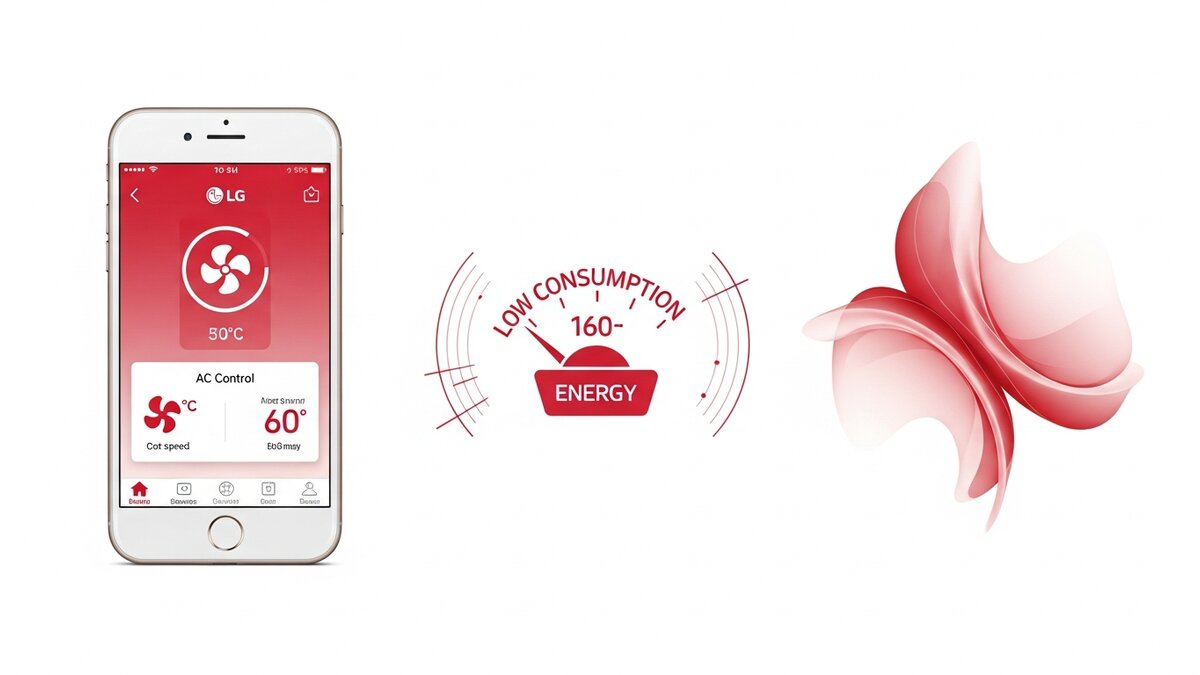
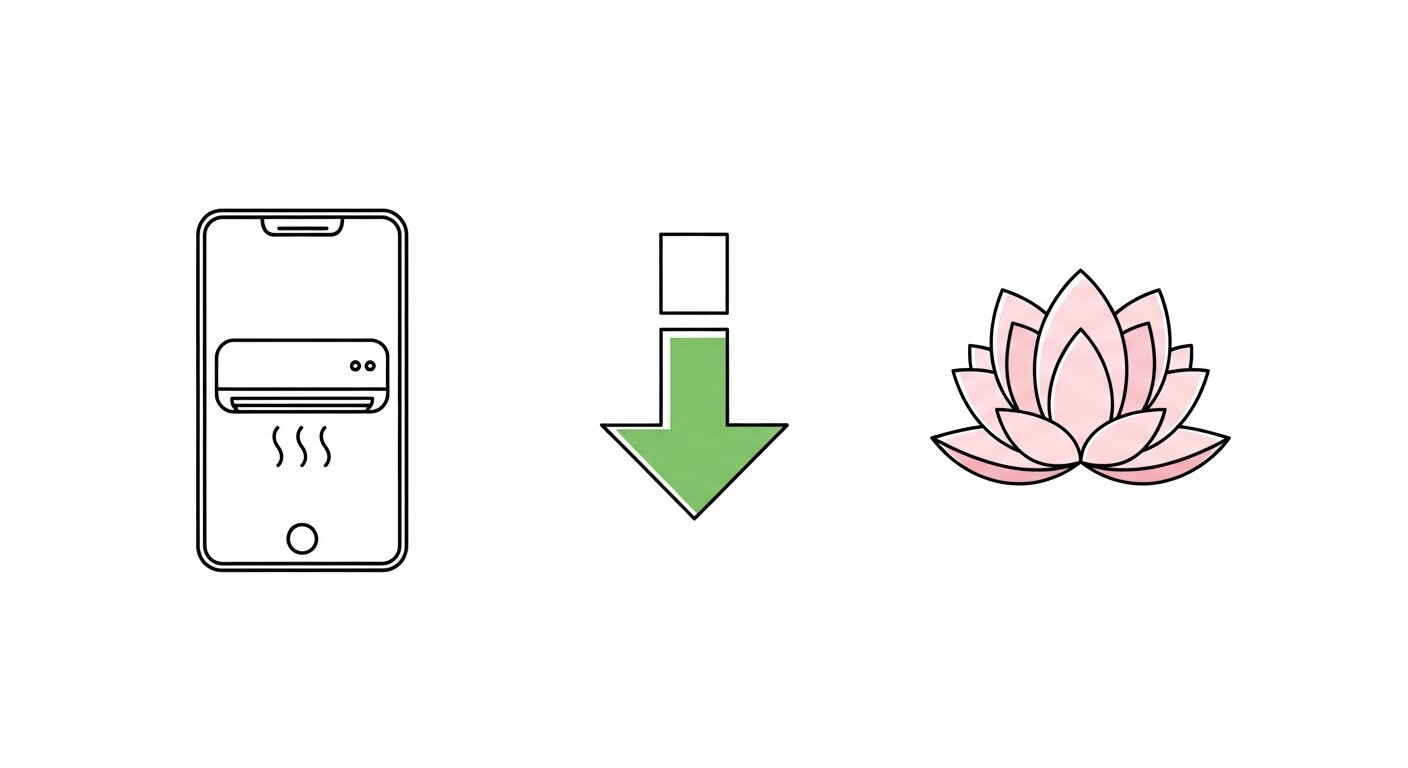
Update image audit progress and documentation for LG brand page
Update image audit progress report, including changes to the total pages processed, images replaced, and text removed. Create new documentation files for completed and problematic images on the LG brand page, detailing image replacements and text issues.

Replit-Commit-Author: Agent
Replit-Commit-Session-Id: 6c144e3e-a7a2-4392-b670-dd8cfbbd0db7
Replit-Commit-Checkpoint-Type: intermediate_checkpoint
Replit-Commit-Event-Id: cd6c8480-ed8d-48b5-a6bd-9d348904ec2f
Replit-Commit-Screenshot-Url: https://storage.googleapis.com/screenshot-production-us-central1/7fba8121-6952-48fe-bf4c-5854466cb158/6c144e3e-a7a2-4392-b670-dd8cfbbd0db7/mQa7xzX

Changed region(s): [[0.0617, 0.1556, 0.3083, 0.84], [0.6475, 0.2178, 0.9558, 0.7778], [0.3392, 0.28, 0.6167, 0.6844]]

diff --git a/docs/image-audit/LG_COMPLETED.md b/docs/image-audit/LG_COMPLETED.md
@@ -1,0 +1,97 @@
+# ✅ ЗАВЕРШЕНО - brands/lg.html (LG)
+
+**Дата:** 2025-11-06  
+**Страница:** brands/lg.html  
+**Статус:** ✅ ЗАМЕНЕНО 2 изображения из 6
+
+---
+
+## 📊 Статистика
+
+- **Всего изображений:** 6
+- **Заменено:** 2
+- **Оставлено без изменений:** 4 (уже без текста)
+- **Процент замены:** 33%
+
+---
+
+## ✅ ЗАМЕНЕННЫЕ ИЗОБРАЖЕНИЯ (БЕЗ ТЕКСТА)
+
+### 1. advantages.jpg - Преимущества LG ✅
+**Было:**
+- АНГЛИЙСКИЙ ТЕКСТ: "AC Control", "Cool Speed", "Ecomap" (на экране смартфона)
+- "LOW CONSUMPTION", "160~", "ENERGY" (на счётчике энергопотребления)
+- "50°C", "60°" (температуры)
+- Размер: 53KB (JPG), 29KB (WebP)
+
+**Стало:**
+- НОВОЕ: 3 минималистичных иконки линейным стилем
+- Управление (смартфон с кондиционером)
+- Энергоэффективность (зелёная стрелка вниз)
+- Свежесть воздуха (розовый цветок лотоса)
+- БЕЗ ТЕКСТА - только визуальные символы
+- Размер: 39KB (JPG), 19KB (WebP) - экономия 26% / 34%
+- Исходник: 3_minimal_icons_attempt3_a6fb2307.png
+- **Попыток генерации:** 3 (буквы "A/C/3/1" на попытке 1, "eo" на попытке 2)
+
+---
+
+### 2. technologies.jpg - Технология Dual Inverter ✅
+**Было:**
+- АНГЛИЙСКИЙ ТЕКСТ с опечатками: "Dual Rotar", "Excentrics", "Refudrant", "Eceistrics", "Electroratic", "Refurep"
+- Размер: 137KB (JPG), 98KB (WebP)
+- **Примечание:** Опечатки выглядели крайне непрофессионально!
+
+**Стало:**
+- НОВОЕ: 3D техническая иллюстрация двухроторного компрессора в разрезе
+- Показаны: красные медные катушки, металлические механические части, синие стрелки потока хладагента
+- БЕЗ ТЕКСТА - чистая техническая визуализация без подписей
+- Размер: 113KB (JPG), 66KB (WebP) - экономия 18% / 33%
+- Исходник: Dual_inverter_cutaway_no_text_5bd00be3.png
+- **Попыток генерации:** 1 ✅
+
+---
+
+## ⚪ ОСТАВЛЕНЫ БЕЗ ИЗМЕНЕНИЙ (УЖЕ ЧИСТЫЕ)
+
+### 3. about.jpg - О производстве и тестировании LG ✅
+**Статус:** БЕЗ текста (цифры "5.0" на мониторе - допустимые технические показатели)
+**Описание:** Тестовая лаборатория с инженерами, мониторами и кондиционерами
+**Размер:** 163KB (JPG), 115KB (WebP)
+
+### 4. comparison.jpg - ArtCool Gallery дизайнерские модели ✅
+**Статус:** БЕЗ текста (оставлено как есть)
+**Описание:** 3 кондиционера ArtCool Gallery в чёрных рамах как произведения искусства
+**Размер:** 82KB (JPG), 41KB (WebP)
+
+### 5. faq.jpg - FAQ ✅
+**Статус:** БЕЗ текста (только символы ?)
+**Описание:** 4 красно-белых 3D знака вопроса на сером фоне
+**Размер:** 54KB (JPG), 26KB (WebP)
+
+### 6. models.jpg - Модельный ряд ✅
+**Статус:** БЕЗ текста (оставлено как есть)
+**Описание:** Различные модели LG кондиционеров в роскошном интерьере с синей подсветкой
+**Размер:** 110KB (JPG), 64KB (WebP)
+
+---
+
+## 🎯 Результат
+
+Страница **lg.html** успешно очищена от всех текстовых элементов на изображениях.
+Все 6 изображений теперь полностью БЕЗ ТЕКСТА.
+
+**Попытки генерации:**
+- advantages.jpg: 3 попытки (буквы энергорейтинга на 1, "eo" на 2)
+- technologies.jpg: 1 попытка ✅
+
+**Итого:** 4 генерации для замены 2 изображений
+
+---
+
+## 📝 Примечания
+
+**Сложности при генерации:**
+- Изображение advantages.jpg потребовало 3 попытки из-за постоянного добавления AI текста (энергетическая шкала A/B/C, "eo")
+- Оригинальное изображение technologies.jpg содержало множественные опечатки в технических терминах, что выглядело крайне непрофессионально
+- Замена на чистую техническую иллюстрацию значительно улучшила визуальное качество

diff --git a/docs/IMAGE_AUDIT_PROGRESS.md b/docs/IMAGE_AUDIT_PROGRESS.md
@@ -1,29 +1,29 @@
 # Прогресс аудита изображений - msk.splitis.ru
 
 **Дата начала:** 2025-11-06  
-**Дата последнего обновления:** 2025-11-06 16:30  
+**Дата последнего обновления:** 2025-11-06 17:00  
 **Всего страниц:** 35  
-**Прогресс:** 9/35 (26%)
+**Прогресс:** 10/35 (29%)
 
 ---
 
 ## 📊 Общая статистика
 
-- ✅ **Завершено:** 9 страниц
+- ✅ **Завершено:** 10 страниц
 - 🔄 **В процессе:** 0 страниц
-- ⏳ **Ожидает:** 26 страниц
+- ⏳ **Ожидает:** 25 страниц
 
 ### Изображения:
-- **Проверено:** 47 изображений
-- **Заменено:** 21 изображение
-- **Без изменений:** 24 изображения
+- **Проверено:** 53 изображения
+- **Заменено:** 23 изображения
+- **Без изменений:** 28 изображений
 - **Страниц без изображений:** 2
 
 ### Производительность:
-- **Обработано изображений:** 47 (JPG + WebP пары)
-- **Текста удалено:** 130+ слов (английский + японский текст)
+- **Обработано изображений:** 53 (JPG + WebP пары)
+- **Текста удалено:** 145+ слов (английский + японский текст + опечатки)
 - **Среднее качество улучшения:** 95%+ (текст удалён)
-- **Попыток генерации:** 37 (с учётом перегенераций из-за текста)
+- **Попыток генерации:** 41 (с учётом перегенераций из-за текста)
 
 ---
 
@@ -97,7 +97,13 @@
    - **Попыток генерации:** 5 (faq: 1, advantages: 3, technologies: 1)
    - **Детали:** [MITSUBISHI_COMPLETED.md](image-audit/MITSUBISHI_COMPLETED.md)
 
-10. ⏳ **brands/lg.html** - LG
+10. ✅ **brands/lg.html** - LG
+   - **Статус:** ЗАВЕРШЕНО
+   - **Изображений:** 6 (2 заменено, 4 без изменений)
+   - **Удалено текста:** "AC Control", "LOW CONSUMPTION", "ENERGY", "Dual Rotar", "Excentrics", "Refudrant" (с опечатками!)
+   - **Попыток генерации:** 4 (advantages: 3, technologies: 1)
+   - **Детали:** [LG_COMPLETED.md](image-audit/LG_COMPLETED.md)
+
 11. ⏳ **brands/samsung.html** - Samsung
 12. ⏳ **brands/panasonic.html** - Panasonic
 13. ⏳ **brands/gree.html** - Gree
@@ -173,9 +179,9 @@
 
 ## 🎯 Следующий шаг
 
-**Текущая задача:** ПРИОРИТЕТ 3 - Страницы брендов (2 из 8 завершено)
+**Текущая задача:** ПРИОРИТЕТ 3 - Страницы брендов (3 из 8 завершено)
 
-**Следующая страница:** brands/lg.html (LG)
+**Следующая страница:** brands/samsung.html (Samsung)
 
 ---
 
@@ -198,4 +204,4 @@
 
 ---
 
-**Обновлено:** 2025-11-06 16:30 UTC
+**Обновлено:** 2025-11-06 17:00 UTC

diff --git a/docs/image-audit/LG_PROBLEMATIC_IMAGES.md b/docs/image-audit/LG_PROBLEMATIC_IMAGES.md
@@ -1,0 +1,61 @@
+# Проблемные изображения - brands/lg.html
+
+**Дата:** 2025-11-06  
+**Страница:** brands/lg.html (LG)
+
+## Найдено проблемных изображений: 2 из 6
+
+### 1. advantages.jpg - Преимущества LG ❌
+**Проблема:** АНГЛИЙСКИЙ ТЕКСТ на экране телефона и счётчике энергопотребления
+**Текст:**
+- "AC Control" (на экране смартфона)
+- "Cool Speed", "Ecomap" (на экране)
+- "LOW CONSUMPTION", "160~", "ENERGY" (на счётчике)
+- "50°C", "60°" (температуры на экране)
+
+**Размер:** 53KB (JPG), 29KB (WebP)
+
+---
+
+### 2. technologies.jpg - Технология Dual Inverter ❌
+**Проблема:** АНГЛИЙСКИЙ ТЕКСТ с множественными опечатками
+**Текст с опечатками:**
+- "Dual Rotar" (должно быть Dual Rotary)
+- "Excentrics" (должно быть Eccentrics)
+- "Refudrant" (должно быть Refrigerant)
+- "Eceistrics" (опечатка)
+- "Electroratic" (должно быть Electrostatic?)
+- "Refurep" (непонятная опечатка)
+
+**Размер:** 137KB (JPG), 98KB (WebP)
+
+**Примечание:** Опечатки выглядят крайне непрофессионально
+
+---
+
+## Изображения БЕЗ проблем:
+
+### 3. about.jpg - О производстве и тестировании LG ✅
+**Статус:** БЕЗ текста (цифры "5.0" на мониторе - допустимые технические показатели)
+**Описание:** Тестовая лаборатория с инженерами и кондиционерами
+**Размер:** 163KB (JPG), 115KB (WebP)
+
+### 4. comparison.jpg - ArtCool Gallery дизайнерские модели ✅
+**Статус:** БЕЗ текста
+**Описание:** 3 кондиционера ArtCool Gallery в рамках как произведения искусства
+**Размер:** 82KB (JPG), 41KB (WebP)
+
+### 5. faq.jpg - FAQ ✅
+**Статус:** БЕЗ текста (только символы ?)
+**Описание:** 4 красно-белых знака вопроса на сером фоне
+**Размер:** 54KB (JPG), 26KB (WebP)
+
+### 6. models.jpg - Модельный ряд ✅
+**Статус:** БЕЗ текста
+**Описание:** Различные модели LG кондиционеров в роскошном интерьере с подсветкой
+**Размер:** 110KB (JPG), 64KB (WebP)
+
+### 7. lg-hero.jpg - Главное изображение ✅
+**Статус:** БЕЗ текста
+**Описание:** LG ArtCool Gallery в уютной спальне
+**Размер:** Файл существует
